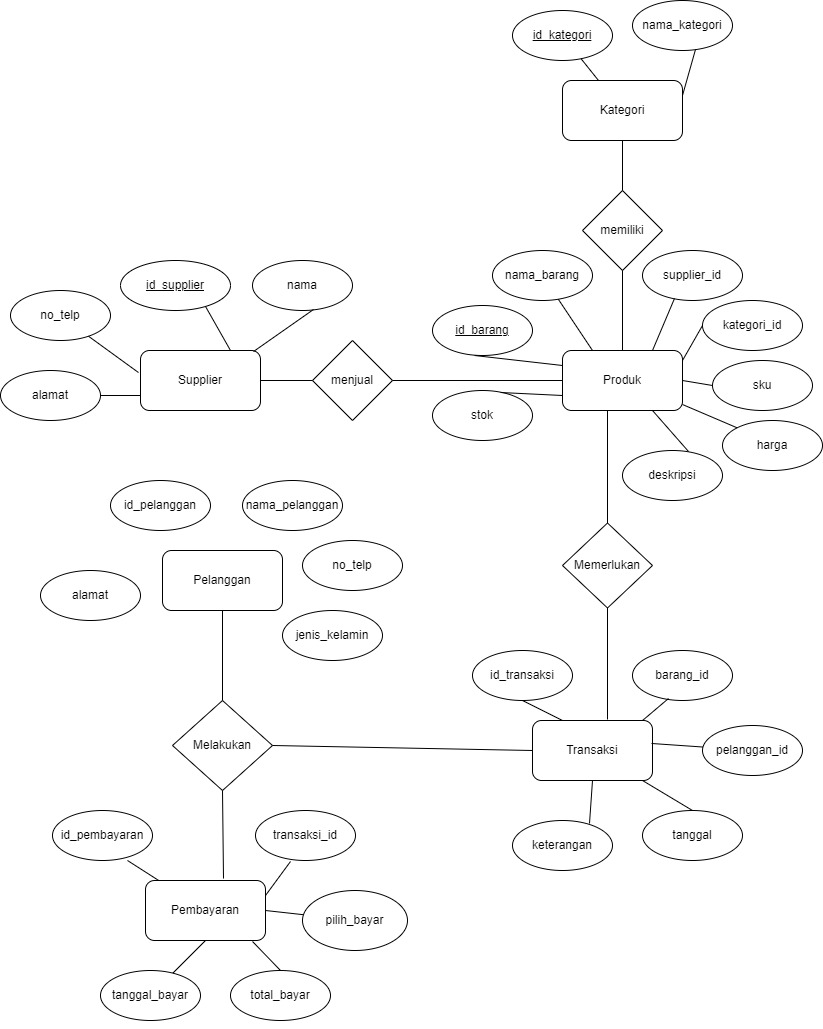
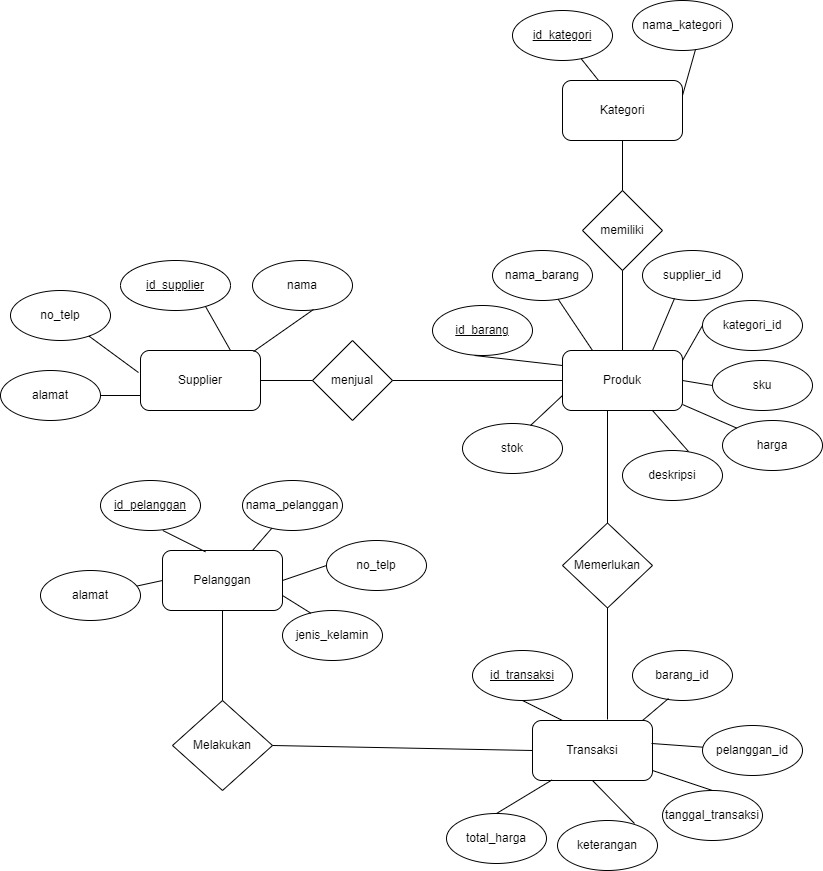
online retail database done

diff --git a/README.md b/README.md
@@ -2,8 +2,8 @@
 ## Tahap Pembuatan Database
 1. Tentukan Entitas
 2. Tentukan Attributes
-3. Tentukan Relationships
-4. ERD
+3. ERD
+4. Tentukan Relationship
 5. Normalisasi
 6. Implementasi Database
 
@@ -15,30 +15,65 @@ Sebuah toko online yang menjual berbagai macam barang.
 Langkah - langkah perancangan database online retail:
 
 1. Menentukan Entitas yang perlu ada di database.
+
   - Supplier
   - Customer
   - Produk
   - Kategori
   - Transaksi
-  - Pembayaran 
 
 2. Menentukan atribut masing masing entity sesuai kebutuhan database
+
   - Supplier
+
     - id: nomor id untuk supplier (integer) PK
     - nama_supplier: nama supplier (varchar(50))
     - no_telp: no telepon supplier (varchar(12))
     - alamat: alamat lengkap supplier (text)
+
   - Customer
+
     - id: nomor id untuk customer (integer) PK
     - nama_customer: nama lengkap customer (varchar(50))
     - no_telp: no telepon milik customer (char(12))
     - jenis_kelamin: jenis kelamin customer (varchar(25))
     - alamat: alamat lengkap customer (text)
+  
+  - Category
 
-3. Relationship
+    - id: nomor id untuk kategori (integer) PK
+    - category_name: nama kategori (varchar(20))
+  
+  - Product
+
+    - id: nomor id untuk barang (integer) PK
+    - nama_barang: nama barang untuk identitas (varchar(100))
+    - sku: kode produk (char(7))
+    - deskripsi: deskripsi suatu produk(text)
+    - harga: harga produk (decimal(10,2))
+    - stok: stok produk (integer)
+    - supplier_id: nomor dari table supplier (integer) FK
+    - category_id: nomor dari table kategori (integer) FK
+  
+  - Transaction
+  
+    - id: nomor id untuk transaksi (integer) PK
+    - tanggal_transaksi: tanggal untuk mengetahui pesan masuk (date)
+    - keterangan: keterangan untuk transaksi (text)
+    - total_harga: untuk mengetahui total yang harus dibayar (decimal(10,2))
+    - customer_id: nomor id dari table customer (integer) FK
+    - product_id: nomor id dari table product (integer) FK
+
+3. Menentukan Relationship (Hubungan) diantara entitas tersebut
+
+![Relationship](/relationship.JPG)
 
 4. ERD (Entity Relationship Diagram) Online Retail
 
 ![erd_online-retail](/OnlineRetail.jpg)
+
+5. Normalisasi: Tabel yang dibuat sudah dalam bentuk normalisasi
+
+6. Implementasi Databasae: Silahkan cek di dalam folder DDL, DML dan Query.
 
 
